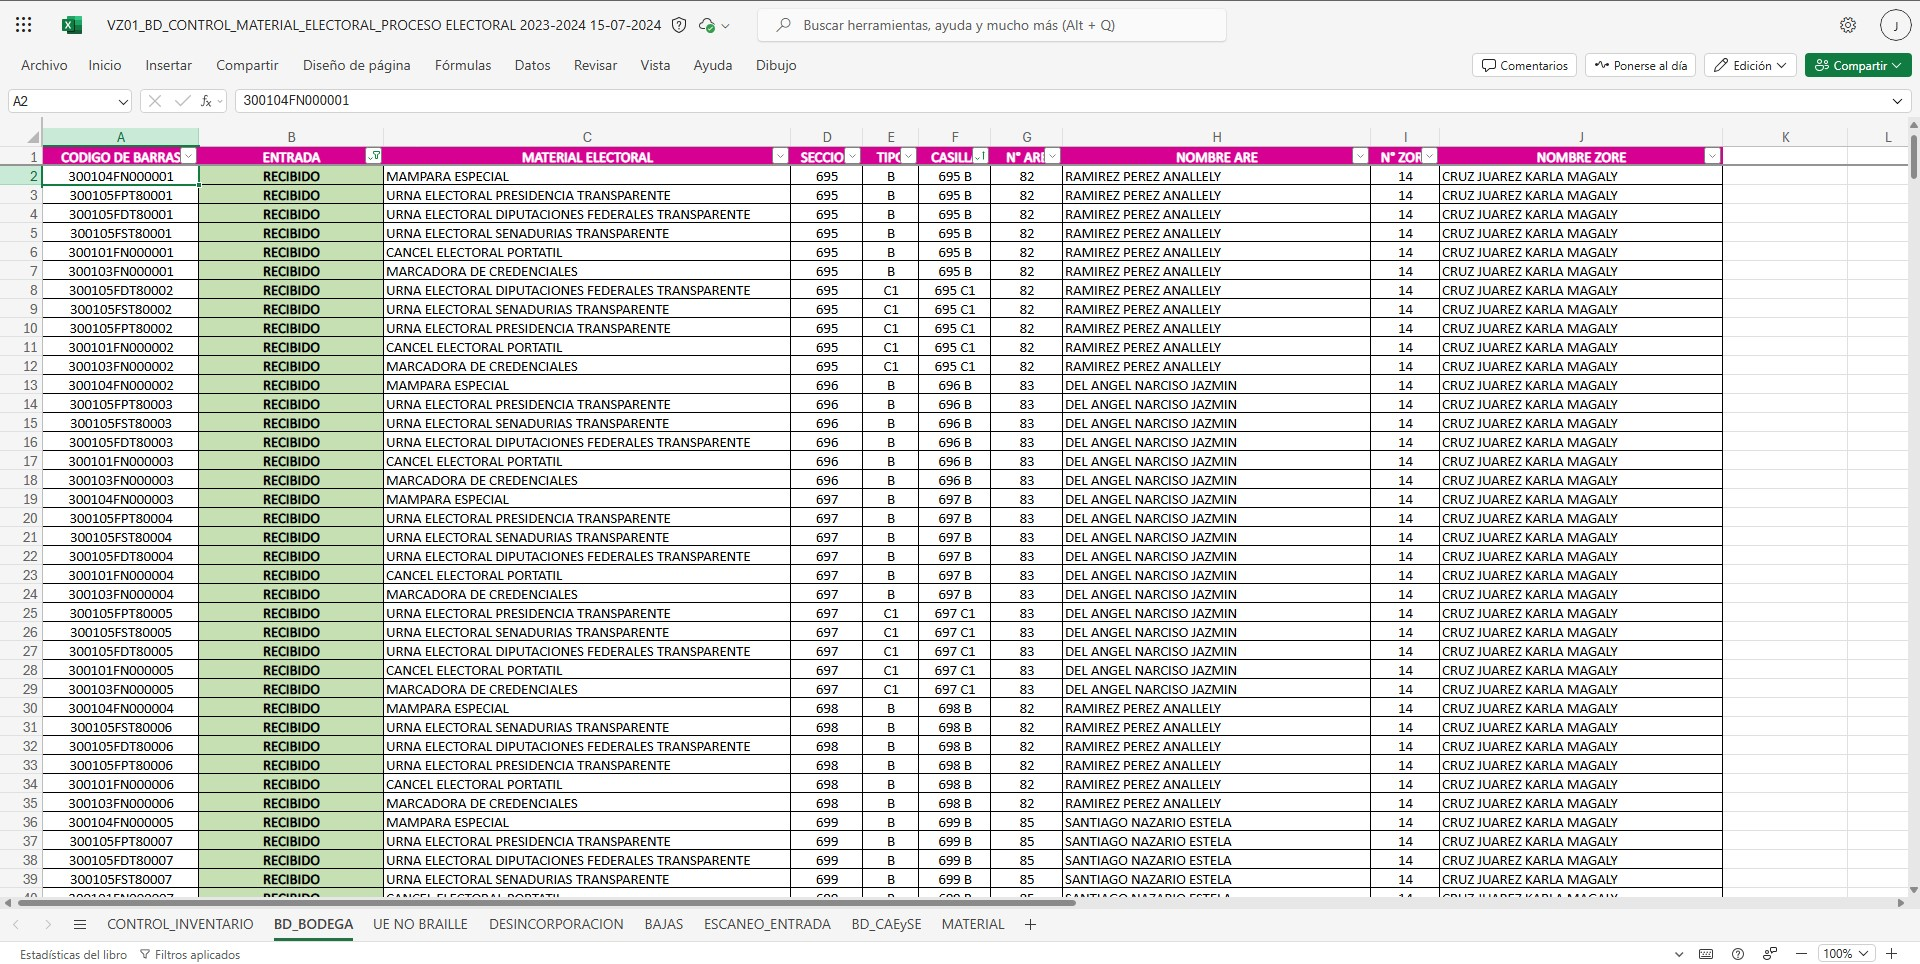
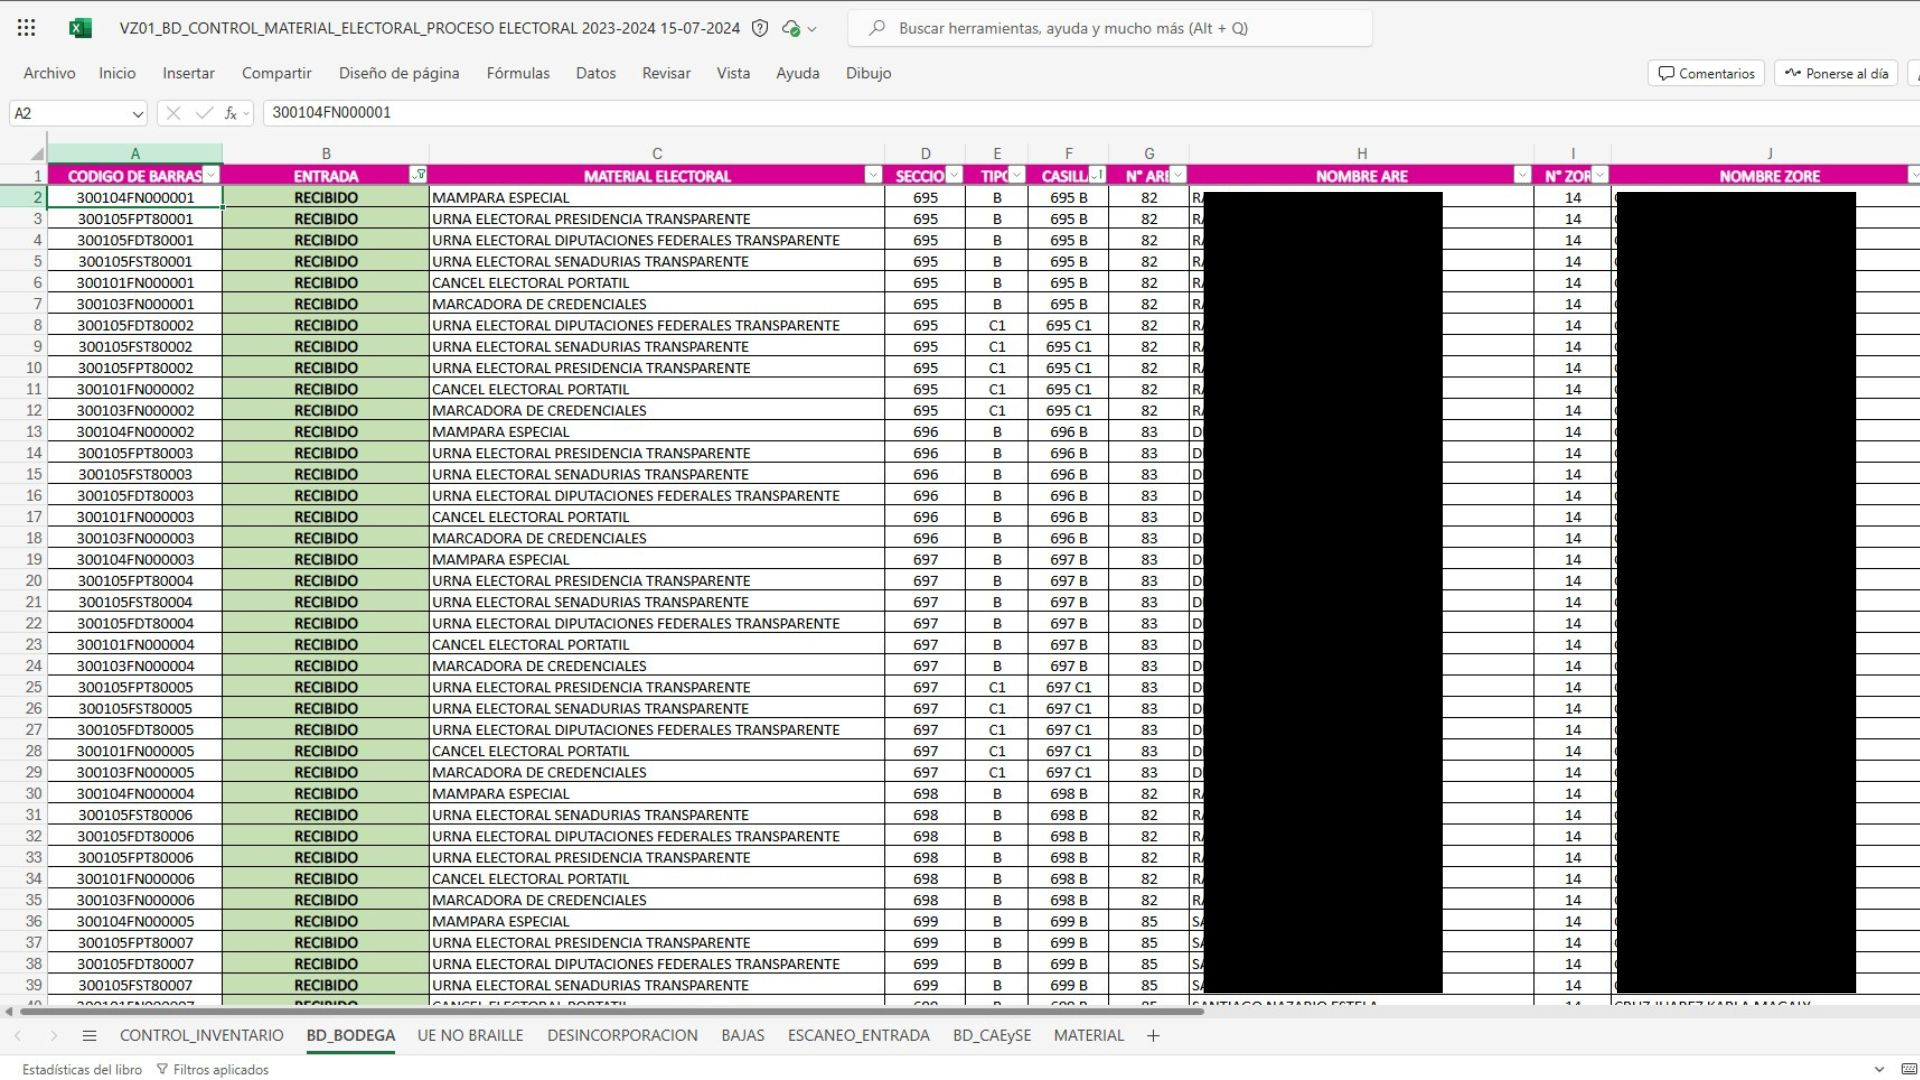
refactor: update project content

diff --git a/frontend/components/sections/Projects.tsx b/frontend/components/sections/Projects.tsx
@@ -15,23 +15,54 @@ const Projects = () => {
   const projects = [
     {
       id: 1,
-      title: "Aplicación Web Centro de Servicios CBI",
-      description:
-        "Diseñada para un centro de servicio autorizado Samsung, con el fin de gestionar de manera eficiente órdenes de servicio, inventario, clientes y usuarios.",
+      title: "Servicios CBI (ERP)",
+      description: 
+        "Servicios CBI es una plataforma de gestión empresarial (ERP) diseñada específicamente para un Centro de Servicio Autorizado Samsung. El sistema optimiza el ciclo de vida completo de las órdenes de soporte técnico para equipos de línea blanca, electrónica y aires acondicionados.",
       image: "/ServiciosCBI.jpg",
       technologies: [
         { name: "React", icon: "mdi:react" },
-        { name: "Node.js", icon: "mdi:nodejs" },
         { name: "Next.js", icon: "mdi:alpha-n-box" },
-        { name: "PostgreSQL", icon: "mdi:database" },
-        { name: "TailwindCSS", icon: "mdi:tailwind" },
         { name: "TypeScript", icon: "mdi:language-typescript" },
+        { name: "PostgreSQL", icon: "mdi:database" },
+        { name: "Supabase", icon: "solar:bolt-bold" },
+        { name: "JWT", icon: "mdi:lock" },
+        { name: "ZOD", icon: "mdi:lock" },
+        { name: "TailwindCSS", icon: "mdi:tailwind" },
+        { name: "TanStack", icon: "solar:document-add-bold-duotone" },
+        { name: "Recharts", icon: "solar:chart-2-bold" },
+        { name: "React-PDF", icon: "solar:file-bold" },
+        { name: "Docker", icon: "mdi:docker" },
+        { name: "Git", icon: "mdi:git" },
       ],
       liveUrl: "",
       githubUrl: "",
     },
     {
       id: 2,
+      title: "NBA Stats API",
+      description:
+        "API RESTful de alto rendimiento para estadísticas de la NBA. Automatizada mediante cron jobs para la recolección de datos (Selenium/BS4) y su procesamiento (Pandas), exponiéndolos mediante FastAPI y PostgreSQL. Incluye seguridad avanzada (JWT/API Keys), control de tráfico con Redis y despliegue en Docker.",
+      image: "/NBA-Stats-API.jpg",
+      technologies: [
+        { name: "Python", icon: "mdi:language-python" },
+        { name: "FastAPI", icon: "solar:bolt-bold" },
+        { name: "Swagger UI", icon: "solar:code-circle-linear" },
+        { name: "PostgreSQL", icon: "mdi:database" },
+        { name: "Redis", icon: "mdi:database" },
+        { name: "Selenium", icon: "mdi:robot" },
+        { name: "BeautifulSoup", icon: "mdi:bowl-mix" },
+        { name: "Numpy", icon: "mdi:numeric" },
+        { name: "Pandas", icon: "mdi:panda" },
+        { name: "JWT", icon: "mdi:lock" },
+        { name: "API Keys", icon: "solar:key-bold" },
+        { name: "Docker", icon: "mdi:docker" },
+        { name: "Git", icon: "mdi:git" },
+      ],
+      liveUrl: "https://bestat-nba-api.onrender.com/docs",
+      githubUrl: "https://github.com/jesusguzriv24/nba-stats-api",
+    },
+    {
+      id: 3,
       title: "Modelo de ML para Predicción de Partidos de NBA",
       description:
         "Un modelo de Machine Learning que emplea datos históricos de equipos y jugadores, obtenidos mediante técnicas de scrapping, para predecir los resultados de los partidos de la NBA.",
@@ -39,6 +70,7 @@ const Projects = () => {
       technologies: [
         { name: "Python", icon: "mdi:language-python" },
         { name: "Pandas", icon: "mdi:panda" },
+        { name: "Numpy", icon: "mdi:numeric" },
         { name: "BeautifulSoup", icon: "mdi:bowl-mix" },
         { name: "Scikit-Learn", icon: "mdi:language-python" },
         { name: "XGBoost", icon: "mdi:language-python" },
@@ -48,7 +80,7 @@ const Projects = () => {
       githubUrl: "",
     },
     {
-      id: 3,
+      id: 4,
       title: "Control de Bodega Electoral",
       description:
         "Gestion de inventarios y reportes para una bodega electoral, facilitando el control de materiales y recursos otorgados a los CAEs durante procesos electorales.",
@@ -56,23 +88,6 @@ const Projects = () => {
       technologies: [
         { name: "Excel", icon: "mdi:microsoft-excel" },
         { name: "Visual Basic", icon: "mdi:microsoft-visual-studio" },
-      ],
-      liveUrl: "",
-      githubUrl: "",
-    },
-    {
-      id: 4,
-      title: "Prop Picker NBA",
-      description:
-        "App diseñada para ayudar a seleccionar las mejores estadisticas de jugadores de la NBA, utilizando datos estadisticos mediante graficos y tablas interactivas.",
-      image: "/Bestat.jpg",
-      technologies: [
-        { name: "React", icon: "mdi:react" },
-        { name: "Node.js", icon: "mdi:nodejs" },
-        { name: "Next.js", icon: "mdi:alpha-n-box" },
-        { name: "PostgreSQL", icon: "mdi:database" },
-        { name: "TailwindCSS", icon: "mdi:tailwind" },
-        { name: "TypeScript", icon: "mdi:language-typescript" },
       ],
       liveUrl: "",
       githubUrl: "",
@@ -190,7 +205,7 @@ const Projects = () => {
                       (tech, index) => (
                         <div
                           key={index}
-                          className="flex items-center gap-2 px-3 py-2 transition-colors border rounded-full bg-default-100 hover:bg-default-200 border-default-200 border-primary/50"
+                          className="flex items-center gap-2 px-3 py-2 transition-colors border rounded-full bg-default-100 hover:bg-default-200 border-primary/50"
                         >
                           <Icon
                             icon={tech.icon}
@@ -221,7 +236,7 @@ const Projects = () => {
                     </Button>
                   ) : null}
 
-                  {/*
+                  {projects[currentProject].githubUrl ? (
                   <Button
                     as={Link}
                     href={projects[currentProject].githubUrl}
@@ -234,7 +249,8 @@ const Projects = () => {
                     }
                   >
                     Ver Codigo
-                  </Button>*/}
+                  </Button>
+                  ) : null}
                 </div>
               </div>
             </div>

diff --git a/frontend/components/sections/Experience.tsx b/frontend/components/sections/Experience.tsx
@@ -15,13 +15,13 @@ const experiences = [
     location: "Tampico, Tamaulipas",
     period: "Julio 2024 - Marzo 2025",
     description:
-      "Diseño y desarrollo completo de una aplicación web bajo arquitectura MVC para la gestión integral de usuarios, clientes, inventario y órdenes de servicio en un centro de servicio autorizado Samsung. El sistema reemplazó una plataforma obsoleta, optimizando la velocidad, confiabilidad y eliminando redundancias.",
+      "Lideré el diseño y desarrollo de una plataforma ERP a medida para un Centro de Servicio Autorizado Samsung. La solución optimiza integralmente el ciclo de vida de las órdenes de soporte técnico para equipos de línea blanca y electrónica, reemplazando sistemas heredados con una arquitectura MVC moderna, rápida y confiable.",
     achievements: [
-      "Recolección y análisis de requerimientos.",
-      "Diseño y modelado de la base de datos relacional.",
-      "Implementación de un sistema escalable con autenticación segura y control de roles.",
-      "Optimización de la experiencia de usuario mediante UI/UX minimalista y responsiva.",
-      "Desarrollo individual a lo largo de todas las fases del proyecto (end-to-end).",
+      "Desarrollo End-to-End: Diseño completo de la aplicación bajo arquitectura MVC, desde el modelado de la base de datos relacional hasta la implementación de una UI responsiva.",
+      "Optimización Operativa: Digitalización de la gestión de inventarios y órdenes de servicio, eliminando redundancias y mejorando significativamente la velocidad de respuesta del centro.",
+      "Seguridad Avanzada: Implementación de autenticación segura (JWT), validación de datos (Zod) y control de acceso basado en roles (RBAC) para proteger la integridad de la información.",
+      "Reportes y Métricas: Integración de herramientas para la generación de reportes técnicos automatizados en PDF y visualización de datos de rendimiento con Recharts.",
+      "Despliegue y Escalabilidad: Configuración de entornos de base de datos con Supabase y despliegue continuo, garantizando alta disponibilidad y escalabilidad del sistema.",
     ],
     technologies: [
       "React",
@@ -29,10 +29,14 @@ const experiences = [
       "TypeScript",
       "PostgreSQL",
       "Supabase",
+      "JWT",
+      "ZOD",
+      "TanStack Query",
       "TailwindCSS",
-      "Zod",
+      "Recharts",
+      "React-PDF",
       "Framer Motion",
-      "Vercel",
+      "Docker",
       "Git",
     ],
   },

diff --git a/frontend/components/layout/footer.tsx b/frontend/components/layout/footer.tsx
@@ -40,14 +40,6 @@ export const Footer = () => {
               >
                 <Icon icon="mdi:linkedin" className="w-5 h-5 text-foreground/70 hover:text-primary" />
               </Link>
-              <Link
-                isExternal
-                href="mailto:jesusguzriv24@gmail.com"
-                className="p-2 transition-colors rounded-lg hover:bg-primary/10"
-                aria-label="Email"
-              >
-                <Icon icon="mdi:email" className="w-5 h-5 text-foreground/70 hover:text-primary" />
-              </Link>
             </div>
           </div>
 
